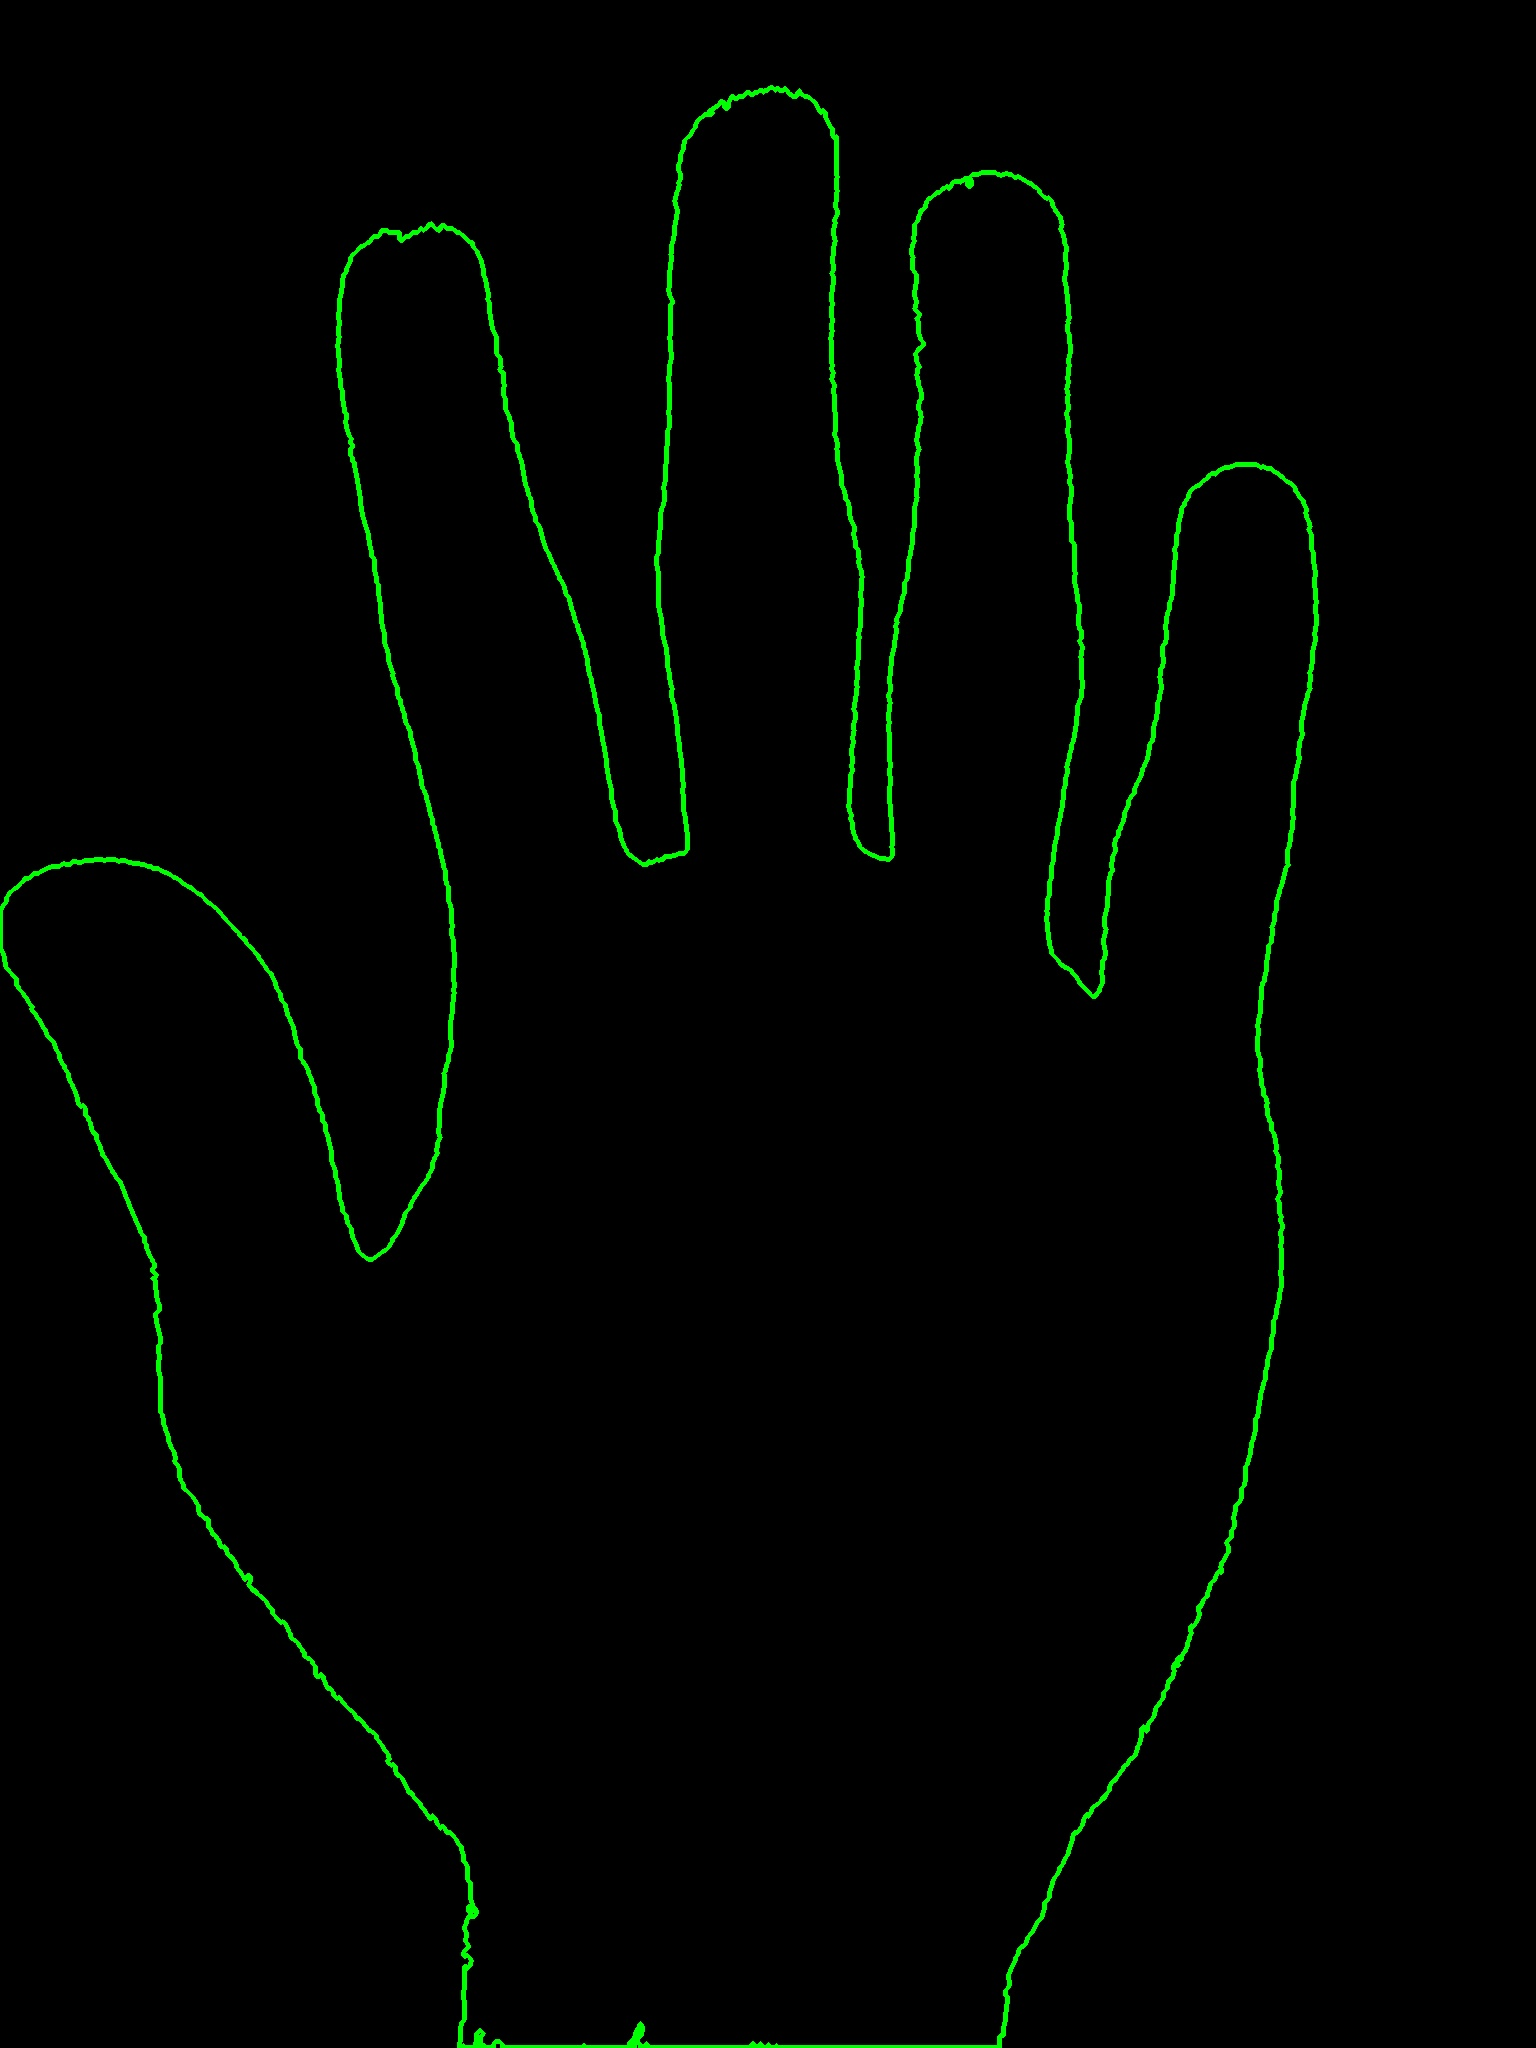
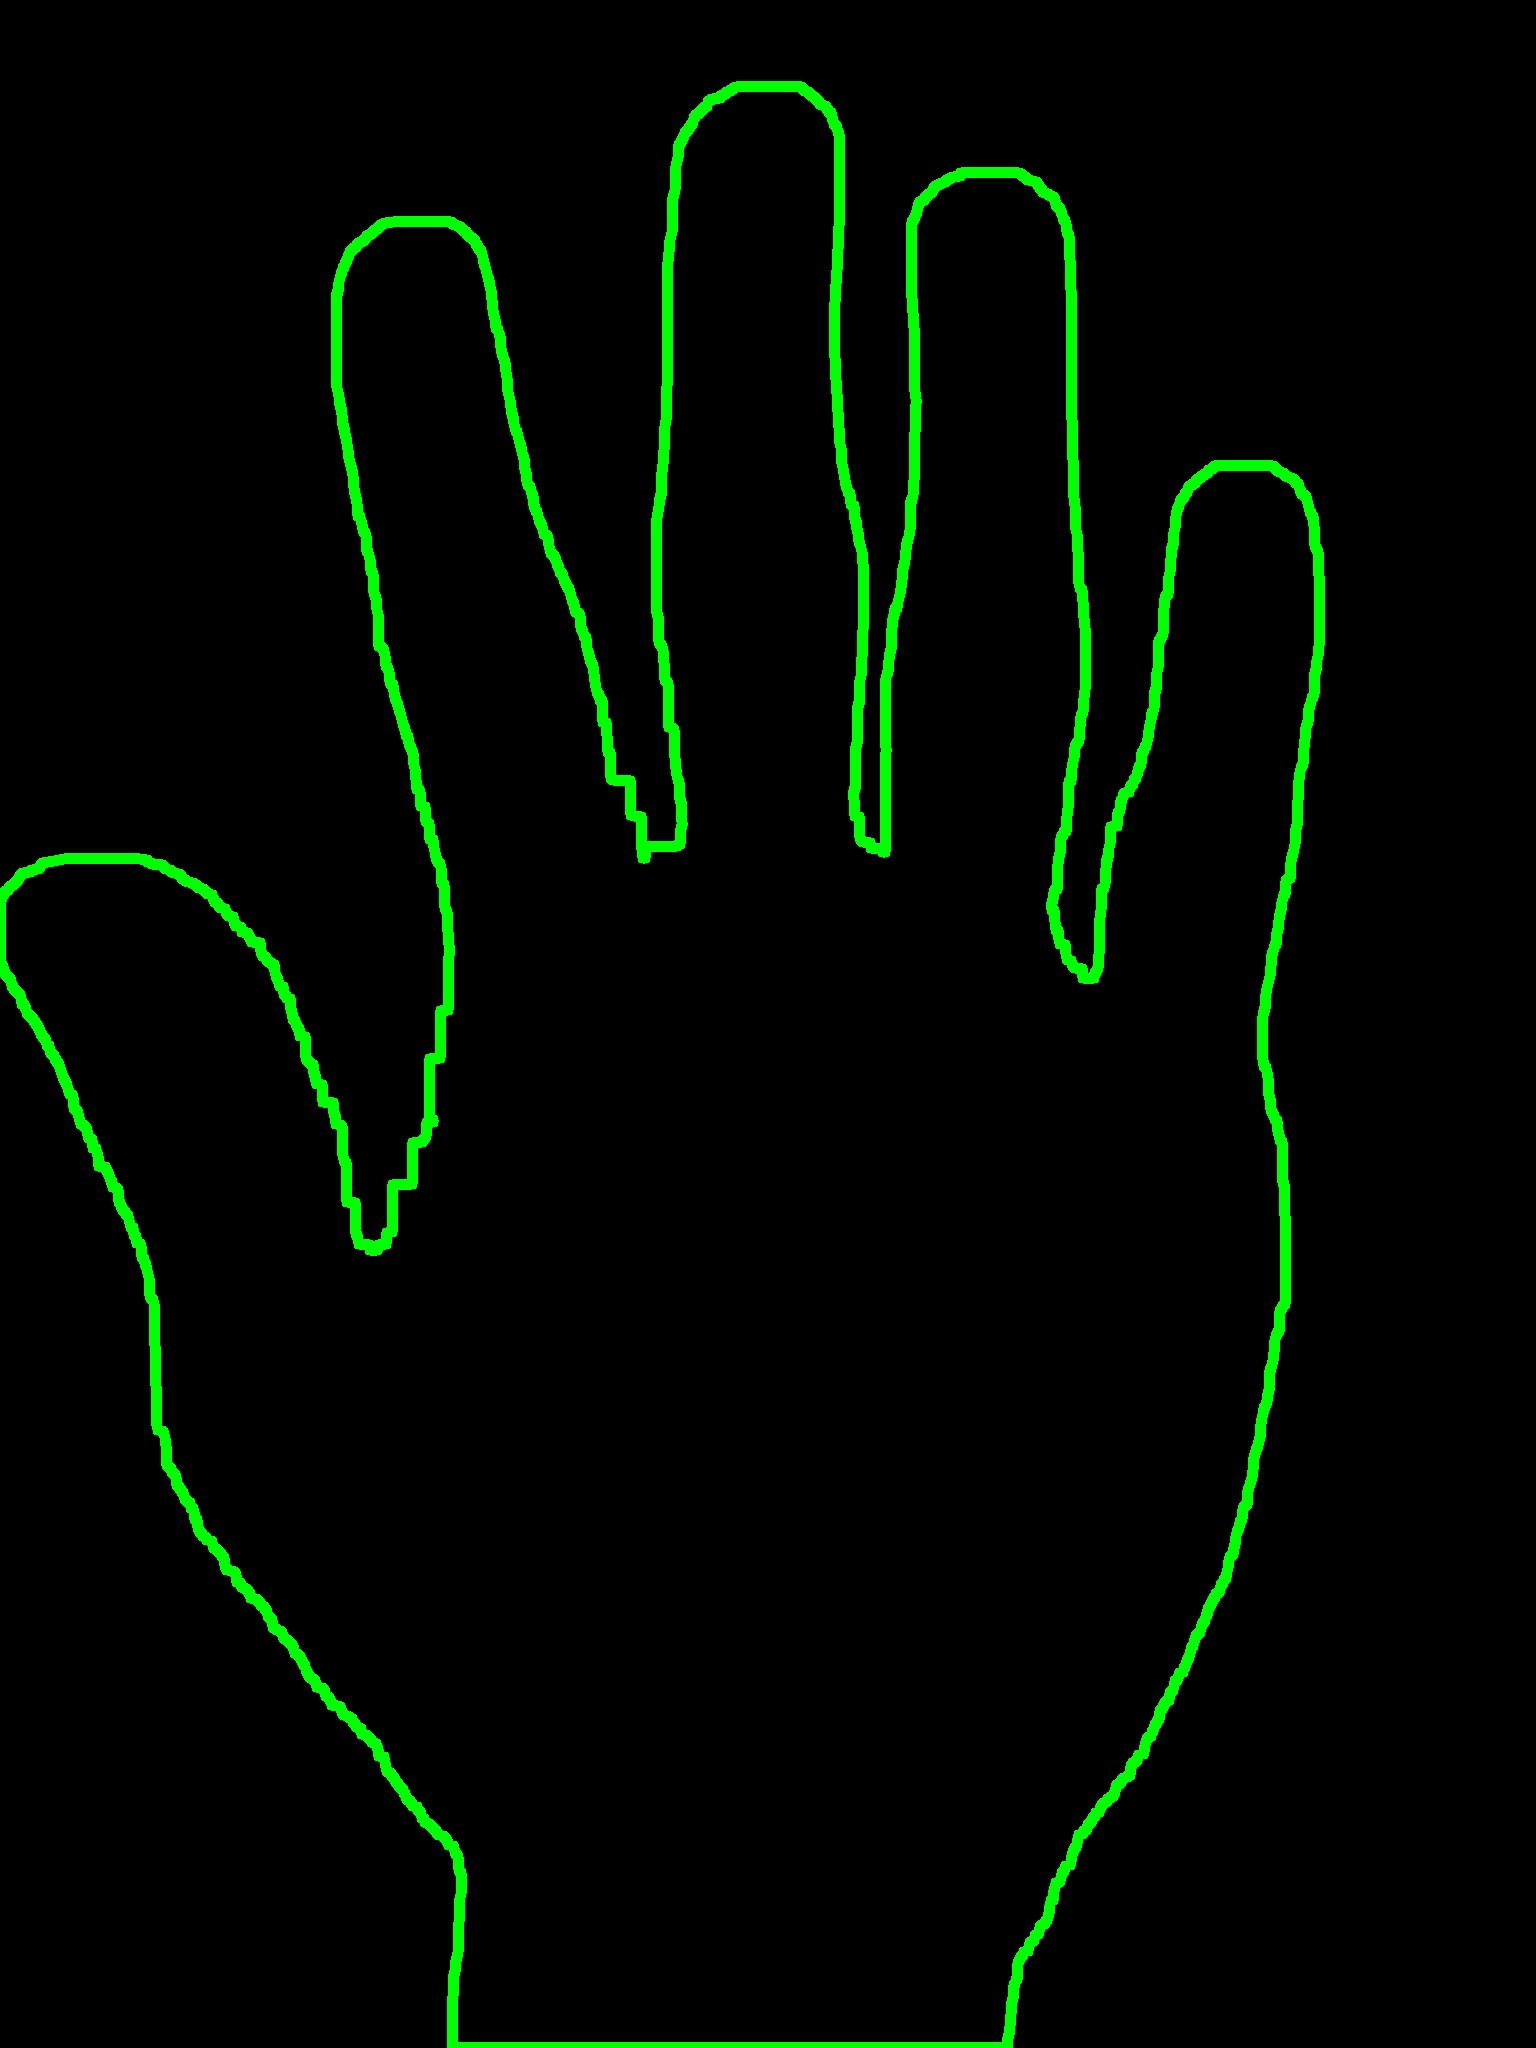
edit_cutout

diff --git a/opencv/cutout/cutout.py b/opencv/cutout/cutout.py
@@ -11,14 +11,20 @@ def cutout(img_file):
 #    #lower = np.array([0,139,70], np.uint8)#lihao
 #    upper = np.array([255,180,127], np.uint8)
 # new
-    lower = np.array([0,137,100], np.uint8)#yangxuanyue
-    upper = np.array([255,175,118], np.uint8)
+    lower = np.array([0,131,102], np.uint8)#yangxuanyue
+    upper = np.array([255,183,154], np.uint8)
 	
     ycrcb = cv2.cvtColor(img, cv2.COLOR_BGR2YCR_CB)
     mask = cv2.inRange(ycrcb, lower, upper)
-    skin = cv2.bitwise_and(img, img, mask=mask)
+#    skin = cv2.bitwise_and(img, img, mask=mask)
+#    cv2.imwrite("{0}_skin.jpg".format(IMAGE_USER),skin)
+
+    kernel = np.ones((57,57),np.uint8)
+    opening = cv2.morphologyEx(mask, cv2.MORPH_OPEN, kernel)
+    skin = cv2.bitwise_and(img, img, mask=opening)
     cv2.imwrite("{0}_skin.jpg".format(IMAGE_USER),skin)
-    _,black_and_white = cv2.threshold(mask, 27,255,0)
+
+    _,black_and_white = cv2.threshold(opening, 127,255,0)
     #find max contours
     _, contours, _ = cv2.findContours(black_and_white, cv2.RETR_TREE, cv2.CHAIN_APPROX_SIMPLE)
     length = len(contours)
@@ -38,4 +44,5 @@ def cutout(img_file):
     cv2.imwrite("{0}_contour_skin.jpg".format(IMAGE_USER),skin)
 
 if __name__ == '__main__':
-    cutout("../image/yangxuanyue/yangxuanyue.jpg")
+#    cutout("../image/yangxuanyue/yangxuanyue.jpg")
+    cutout("../image/lihao/lihao.jpg")
